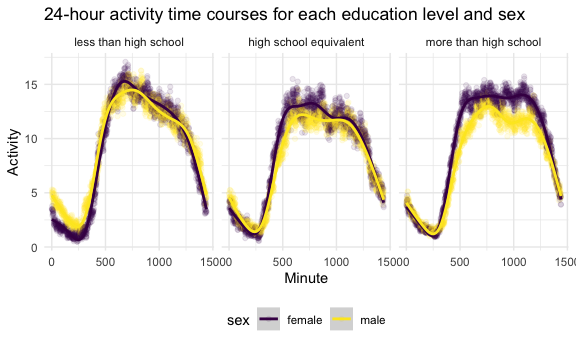
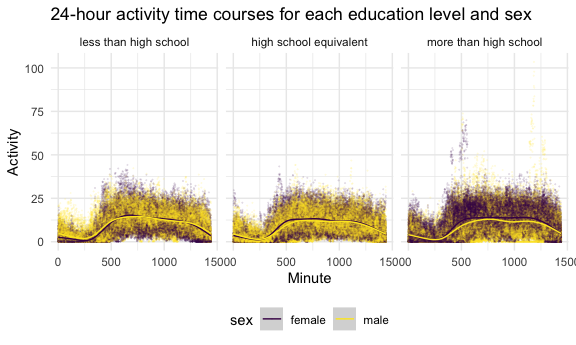
fix last part of problem 2

diff --git a/p8105_hw3_hc3448.md b/p8105_hw3_hc3448.md
@@ -117,24 +117,29 @@ inspection_activity_df =
                names_to = "minute",
                names_prefix = "min",
                values_to = "activity") |>
-  group_by(minute, sex, education) |>
-  summarize(min_activity = mean(activity)) |>
+  #group_by(minute, sex, education) |>
+  #summarize(min_activity = mean(activity)) |>
   mutate(minute = as.numeric(minute))
 ```
 
-    ## `summarise()` has grouped output by 'minute', 'sex'. You can override using the
-    ## `.groups` argument.
-
 ``` r
 plot_inspection_activity = inspection_activity_df |>
-  ggplot(aes(x = minute, y = min_activity, color = sex)) +
-  geom_point(alpha = 0.1) +
-  geom_smooth() +
+  ggplot(aes(x = minute, y = activity, color = sex)) +
+  geom_point(alpha = 0.1, size = 0.01) +
+  geom_smooth(size = 0.5) +
   facet_grid(. ~education) +
   labs(title = "24-hour activity time courses for each education level and sex", 
        x = "Minute",
        y = "Activity") 
+```
 
+    ## Warning: Using `size` aesthetic for lines was deprecated in ggplot2 3.4.0.
+    ## ℹ Please use `linewidth` instead.
+    ## This warning is displayed once every 8 hours.
+    ## Call `lifecycle::last_lifecycle_warnings()` to see where this warning was
+    ## generated.
+
+``` r
 plot_inspection_activity
 ```
 
